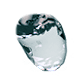
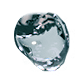
first test

diff --git a/app/js/drops.js b/app/js/drops.js
@@ -1,11 +1,19 @@
-import { Application, Sprite, RenderTexture, filters, Container, Graphics } from 'pixi.js'
+import { Application, loader, Sprite, RenderTexture, filters, Container, Graphics, WRAP_MODES } from 'pixi.js'
 import { getRandom } from './helpers'
-import background from '../images/water-in-the-desert.jpg'
 import dat from 'dat.gui'
 import { TweenMax } from 'gsap'
+
 // Images
+import background from '../images/window.jpg'
 import drop1 from '../images/water-1.png'
+import drop2 from '../images/water-2.png'
+import drop3 from '../images/water-3.png'
+import drop4 from '../images/water-4.png'
 import dropNormal1 from '../images/water-normal-1.png'
+import dropNormal2 from '../images/water-normal-2.png'
+import dropNormal3 from '../images/water-normal-3.png'
+import dropNormal4 from '../images/water-normal-4.png'
+import flicker from '../images/flicker.jpg'
 
 
 class Drops {
@@ -14,12 +22,14 @@ class Drops {
 
 		// bind
 		this.handleMouse = this.handleMouse.bind(this)
-		this.checkMouse = this.checkMouse.bind(this)
-		this.onChangeRefraction = this.onChangeRefraction.bind(this)
+		this.stopMouse = this.stopMouse.bind(this)
+		this.stretch = this.stretch.bind(this)
+		this.onChangeFilter = this.onChangeFilter.bind(this)
+
 
 		// set up
 
-		this.nbDrops = 2
+		this.nbDrops = 10
 
 		this.screen = {
 			w: window.innerWidth,
@@ -35,8 +45,6 @@ class Drops {
 			backgroundColor: 0xf4efe2
 		})
 
-		this.container = new Container()
-
 		this.mouse = {
 			x: this.screen.w / 2,
 			y: this.screen.h / 2
@@ -47,91 +55,67 @@ class Drops {
 
 		// GUI
 		this.controller = {
-			refraction: 1000
+			refraction: 120,
+			flicker_effect: 25,
+			wind: 0.1,
 		}
 
 		this.gui = new dat.GUI()
-		this.gui.add(this.controller, 'refraction', -2000, 1000).onChange(this.onChangeRefraction)
+		this.gui.add(this.controller, 'refraction', -2000, 1000).onChange(this.onChangeFilter)
+		this.gui.add(this.controller, 'flicker_effect', 0, 50).onChange(this.onChangeFilter)
+		this.gui.add(this.controller, 'wind', 0, 15).onChange(this.onChangeFilter)
 
-		this.setBackground()
-		this.setDrops()
-		this.setDisplacement()
 
-		// loader ?
+		// Load
+		this.loader = loader
+		this.loader.add('background', background)
+		this.loader.add('drop1', drop1)
+		this.loader.add('drop2', drop2)
+		this.loader.add('drop3', drop3)
+		this.loader.add('drop4', drop4)
+		this.loader.add('dropNormal1', dropNormal1)
+		this.loader.add('dropNormal2', dropNormal2)
+		this.loader.add('dropNormal3', dropNormal3)
+		this.loader.add('dropNormal4', dropNormal4)
+		this.loader.add('flicker', flicker)
 
-		this.events()
+		this.loader.load((loader, resources) => {
 
-		this.app.stage.addChild(this.container)
+			this.resources = resources
 
-		this.checkMouse()
+			this.setBackground()
+			this.setDrops()
+			this.setRefraction()
+			this.setFlicker()
+
+			this.events()
+
+			this.stretch()
+		})
 
 	}
 
 	events() {
-		window.addEventListener('mousemove', this.handleMouse)
-		window.addEventListener('touchmove', this.handleMouse)
+		this.app.view.addEventListener('mousemove', this.handleMouse)
+		this.app.view.addEventListener('mouseleave', this.stopMouse)
 
 		this.app.ticker.start()
 		this.app.ticker.add(this.handleRAF.bind(this))
 	}
 
-	checkMouse() {
-
-		let speedX = Math.abs(this.mouse.x - this.lastMouseX)
-		let speedY = Math.abs(this.mouse.y - this.lastMouseY)
-
-		if (speedX > 600 || speedY > 600) {
-
-			if (!this.isStretching) {
-				this.isStretching = true
-
-				for (let i = 0; i < this.drops.length; i++) {
-
-					let w, h
-					if (speedX > 600) {
-						w = this.drops[i].initW
-						h = this.drops[i].initH * 0.5
-					} else {
-						w = this.drops[i].initW * 0.5
-						h = this.drops[i].initH
-					}
-
-					TweenMax.to([this.drops[i], this.dropsNormal[i]], 0.3, {
-						width: w,
-						height: h,
-						ease: window.Linear.easeNone,
-						onComplete: () => {
-
-							this.lastMouseX = this.mouse.x
-							this.isStretching = false
-
-						}
-					})
-				}
-			}
-			console.log('vite !!!!')
-		} else {
-
-			for (let i = 0; i < this.drops.length; i++) {
-				TweenMax.to([this.drops[i], this.dropsNormal[i]], 0.5, { width: this.drops[i].initW, height: this.drops[i].initH, ease: window.Expo.easeOut })
-			}
-		}
-
-		this.lastMouseX = this.mouse.x
-		this.lastMouseY = this.mouse.y
-
-		TweenMax.delayedCall(0.5, this.checkMouse)
-
-
-
-	}
-
 	setBackground() {
 
-		this.bkg = Sprite.fromImage(background)
+		this.bkg = new Sprite(this.resources.background.texture)
 		this.bkg.anchor.set(0.5, 0.5)
 		this.bkg.x = this.app.screen.width / 2
 		this.bkg.y = this.app.screen.height / 2
+
+		let ratio = this.resources.background.texture.width / this.resources.background.texture.height
+
+		if (ratio > 1) {
+			this.bkg.width = this.app.screen.width
+			this.bkg.height = this.app.screen.width / ratio
+		}
 
 		this.app.stage.addChild(this.bkg)
 
@@ -149,28 +133,49 @@ class Drops {
 
 		this.normalsContainer.addChild(grayBkg)
 
-		// create a render texture containing all normal drops
+		// 4 differents type of drops
+		this.dropModels = [this.resources.drop1.texture, this.resources.drop2.texture, this.resources.drop3.texture, this.resources.drop4.texture]
+		this.dropNormalModels = [this.resources.dropNormal1.texture, this.resources.dropNormal2.texture, this.resources.dropNormal3.texture, this.resources.dropNormal4.texture]
 
 		this.drops = []
 		this.dropsNormal = []
 
 		for (let i = 0; i < this.nbDrops; i++) {
 
-			let drop = Sprite.fromImage(drop1)
+			let model = Math.round(getRandom(0,3))
+			console.log(model)
+
+			let drop = new Sprite(this.dropModels[model])
+			let dropNormal = new Sprite(this.dropNormalModels[model])
+
 			drop.alpha = 0.8
-
-			let dropNormal = Sprite.fromImage(dropNormal1)
-
 			drop.anchor.set(0.5, 0.5)
 			dropNormal.anchor.set(0.5, 0.5)
-			dropNormal.x = drop.x = drop.initX = getRandom(this.app.screen.width / 2 - 100, this.app.screen.width / 2 + 100)
-			dropNormal.y = drop.y = drop.initY = getRandom(this.app.screen.height / 2 - 100, this.app.screen.height / 2 + 100)
 
-			// drop.lens = getRandom(100, 200) / 100 // random lens
-			// drop.speed = getRandom(1, 1.3) // random lens
-			drop.initW = drop.texture.baseTexture.width - 20 /// ??????? why not 80
-			drop.initH = drop.texture.baseTexture.height - 20 /// ??????? why not 80
-			// console.log(drop.texture.baseTexture, drop.texture.baseTexture.width)
+			// Random positions
+			let marge = this.app.screen.width / 6
+			drop.initX = getRandom(this.app.screen.width / 2 - marge, this.app.screen.width / 2 + marge)
+			drop.initY = getRandom(this.app.screen.height / 2 - marge, this.app.screen.height / 2 + marge)
+
+			// Random size
+			dropNormal.scale.x = drop.scale.x = dropNormal.scale.y = drop.scale.y = drop.initScale = getRandom(0.8, 1.2)
+
+			let margeCollision = 100
+			// Avoid collisions
+			for (let i = 0; i < this.drops.length; i++) {
+				if (drop.initX < margeCollision + this.drops[i].initX && drop.initX > -margeCollision + this.drops[i].initX && drop.initY < margeCollision + this.drops[i].initY && drop.initY > -margeCollision + this.drops[i].initY) {
+					// if in the perimeter
+					drop.initX += margeCollision
+					drop.initY += margeCollision
+
+				}
+			}
+
+			dropNormal.x = drop.x = drop.initX
+			dropNormal.y = drop.y = drop.initY
+
+			drop.coefX = 0.04 * drop.initScale // random velocity
+			drop.coefY = 0.04 * drop.initScale
 
 			this.app.stage.addChild(drop)
 			this.normalsContainer.addChild(dropNormal)
@@ -186,7 +191,7 @@ class Drops {
 
 	}
 
-	setDisplacement() {
+	setRefraction() {
 
 		// Create a render texture containing all normal drops
 		// This render Texture will be use as a filter on the background
@@ -202,6 +207,74 @@ class Drops {
 
 	}
 
+	setFlicker() {
+
+		this.flickerSprite = new Sprite(this.resources.flicker.texture)
+
+		this.flickerSprite.texture.baseTexture.wrapMode = WRAP_MODES.REPEAT
+
+
+		this.flicker = new filters.DisplacementFilter(this.flickerSprite)
+		this.flicker.scale.x = this.controller.flicker_effect
+		this.flicker.scale.y = this.controller.flicker_effect
+
+		// Need to be added to stage
+		this.app.stage.addChild(this.flickerSprite)
+
+		// Add filter
+		for (let i = 0; i < this.drops.length; i++) {
+			this.drops[i].filters = [this.flicker]
+			this.dropsNormal[i].filters = [this.flicker]
+		}
+
+	}
+
+	stretch() {
+
+		// Calcule mouse speed
+		let distX = this.mouse.x - this.lastMouseX
+		let distY = this.mouse.y - this.lastMouseY
+
+		// Pythagore <3
+		let dist = Math.sqrt(distX * distX + distY * distY)
+		// With the delayed call we know the speed : let's say if dist > 200 after 0.1s, it's fast
+		// console.log(dist)
+		let maxDist = 50
+
+		if (dist > maxDist) {
+
+			for (let i = 0; i < this.drops.length; i++) {
+
+				let w, h
+				if (Math.abs(distX) > maxDist) {
+					w = this.drops[i].initScale * 1.4
+					h = this.drops[i].initScale * 0.5
+				} else {
+					w = this.drops[i].initScale * 0.5
+					h = this.drops[i].initScale * 1.4
+				}
+
+				TweenMax.to([this.drops[i].scale, this.dropsNormal[i].scale], 0.3, {
+					x: w,
+					y: h,
+					ease: window.Linear.easeNone
+				})
+			}
+
+		} else {
+
+			for (let i = 0; i < this.drops.length; i++) {
+				TweenMax.to([this.drops[i].scale, this.dropsNormal[i].scale], 0.5, { x: this.drops[i].initScale, y: this.drops[i].initScale, ease: window.Expo.easeOut })
+			}
+		}
+
+		this.lastMouseX = this.mouse.x
+		this.lastMouseY = this.mouse.y
+
+		TweenMax.delayedCall(0.1, this.stretch) // Check every 0.1s if we need to stretch drops
+
+	}
+
 	handleMouse(e) {
 
 		if (e) {
@@ -210,50 +283,47 @@ class Drops {
 			this.mouse.x = x - this.screen.w / 2
 			this.mouse.y = y - this.screen.h / 2
 
-			if (this.lastMouseX > -1) {
-				this.mousetravel += Math.max(Math.abs(x - this.lastMouseX), Math.abs(y - this.lastMouseY))
-			}
 		}
+	}
+
+	stopMouse() {
+		this.mouse.x = 0
+		this.mouse.y = 0
 	}
 
 	handleRAF() {
 
-		// const coefX = 0.015
-		// const coefY = 0.015
-
-		// const maxOffset = clamp(this.app.screen.width, 1000, 1524)
-		// let offset = maxOffset * 0.27 - 100
-
+		// Move drops
 		for (let i = 0; i < this.drops.length; i++) {
 
-			// console.log(this.mouse.x)
-
-			const currentPosX = this.drops[i].initX
-			const currentPosY = this.drops[i].initY
-
 			// Specify target we want
-			this.posTargets[i].x = currentPosX + this.mouse.x
-			this.posTargets[i].y = currentPosY + this.mouse.y
+			this.posTargets[i].x = this.drops[i].initX + this.mouse.x
+			this.posTargets[i].y = this.drops[i].initY + this.mouse.y
 
 			// Smooth it with deceleration
-			this.posSmooth[i].x += (this.posTargets[i].x - this.posSmooth[i].x) * 0.08
-			this.posSmooth[i].y += (this.posTargets[i].y - this.posSmooth[i].y) * 0.08
+			this.posSmooth[i].x += (this.posTargets[i].x - this.posSmooth[i].x) * this.drops[i].coefX
+			this.posSmooth[i].y += (this.posTargets[i].y - this.posSmooth[i].y) * this.drops[i].coefY
 
-			// Apply on sprites & hues pixi elements
+			// Apply on sprites & normals drops
 			this.drops[i].x = this.dropsNormal[i].x = this.posSmooth[i].x
 			this.drops[i].y = this.dropsNormal[i].y = this.posSmooth[i].y
 
 		}
 
-		// Render Texture
-		this.app.renderer.render(this.normalsContainer, this.renderTexture) // render the RenderTexture and use it as a displacement filter
+		// Render Texture of normalsContainer and use it as a displacement filter
+		this.app.renderer.render(this.normalsContainer, this.renderTexture)
 
+		// Wind effect
+		this.flickerSprite.x += this.controller.wind
 	}
 
-	onChangeRefraction() {
+	onChangeFilter() {
 
 		this.displacement.scale.x = this.controller.refraction
 		this.displacement.scale.y = this.controller.refraction
+
+		this.flicker.scale.x = this.controller.flicker_effect
+		this.flicker.scale.y = this.controller.flicker_effect
 	}
 
 }
